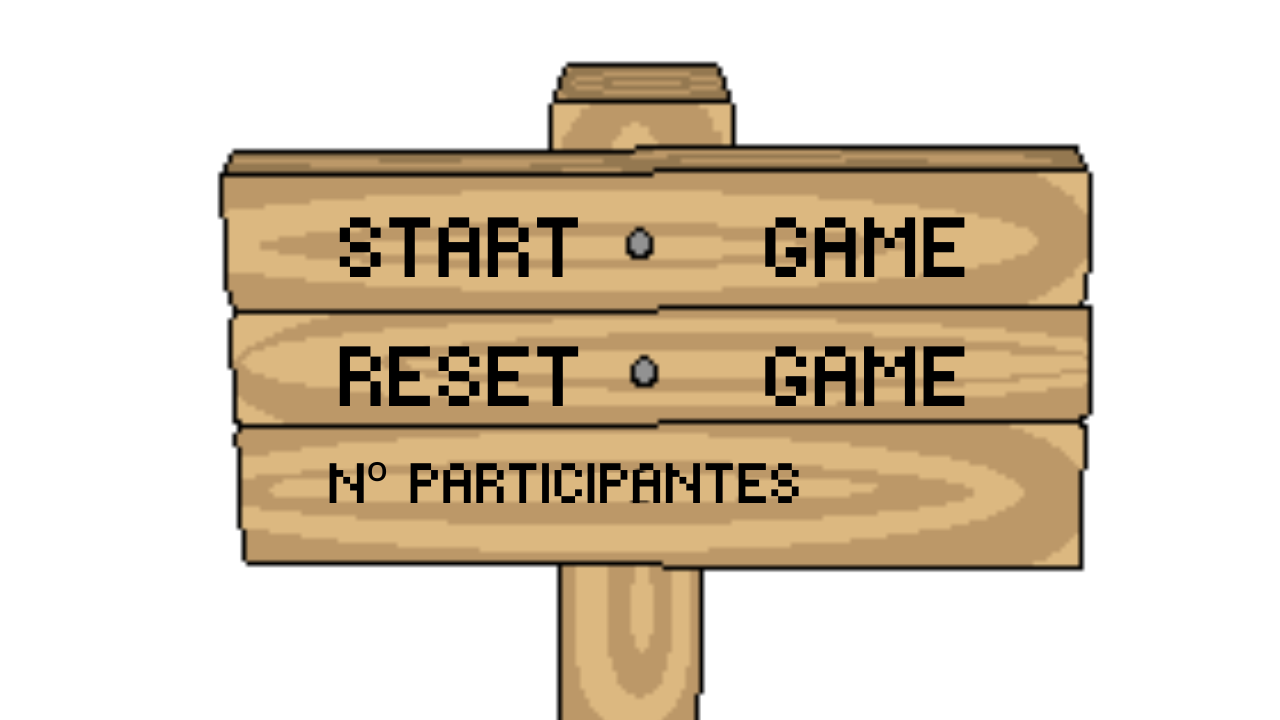
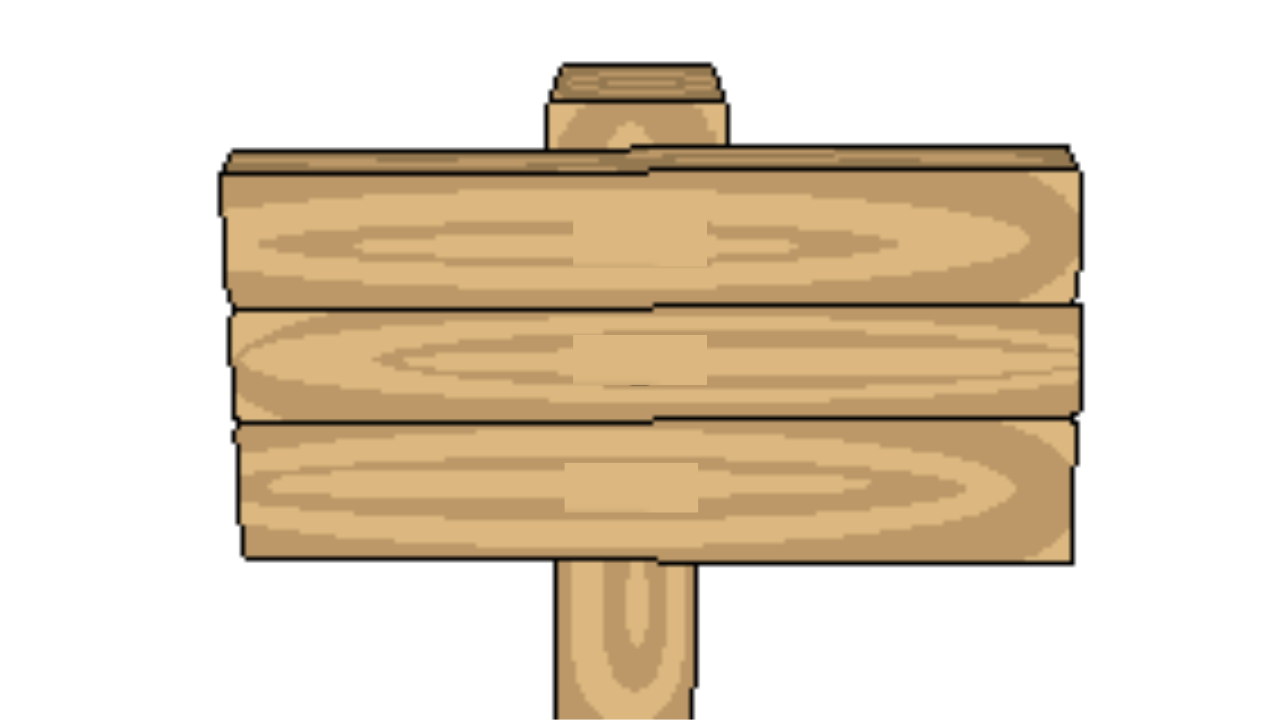
Final

Changed region(s): [[0.1562, 0.0917, 0.875, 1.0], [0.7812, 0.3361, 0.8125, 0.3667], [0.6562, 0.6722, 0.6875, 0.7028]]

diff --git a/css/style.css b/css/style.css
@@ -1,9 +1,10 @@
 @charset "utf-8";
-/* CSS Document */
+@import url('https://fonts.cdnfonts.com/css/common-pixel');
 
 *{
     padding: 0;
     margin: 0;
+    font-family: 'Common Pixel', sans-serif;
 }
 body {
     text-align: center;
@@ -71,8 +72,10 @@ body {
 #InfoCarrera {
     width: 80%;
     margin: 40px auto 0;
-    background: #333;
-    height: 200px;
+    background: #966F33;
+    height: 230px;
+    border-radius: 25px;
+
 }
 #InfoCarrera h2 {
     color: white;
@@ -87,24 +90,15 @@ body {
     width: 50%;
     float: left;
 }
-.InfoCarrera span {
-    display: block;
-    font-weight: normal;
-    font-size: 18px;
-    color: white;
-}
-#InfoCarrera1 {
-    color: #77B82f;
-}
-#InfoCarrera2 {
-    color: #B82F3E;
-}
 
 input[type="button"] {
     background: transparent;
-    color: white;
+    color: black;
     padding: 10px 50px;
-    border: solid 1px #444;
+    border: solid 1px transparent;
+font-size: 20px;
+
+                                                
 }
 
 #Start {
@@ -121,16 +115,18 @@ input[type="button"] {
     padding-left: 80px;
     padding-right: 80px;
     padding-top: 0px;
+    display: none;
+
 }
 
 .nParticipantes{
     margin-top: -510px;
-    margin-left: -470px;
+    margin-left: -580px;
 }
 
 input#Reset {
     background: transparent;
-    color: #444;
+    color: black;
 }
 #InfoCarrera:after {
     content: "";
@@ -144,6 +140,6 @@ width: 300px;
 
 margin-left: 900px;
 
-margin-top: -150px;
+margin-top: -180px;
 
 }

diff --git a/js/scripts.js b/js/scripts.js
@@ -1,5 +1,3 @@
-//JavaScript Document
-
 
 let seleccionNParticipantes = document.querySelector('#coches');
 
@@ -38,13 +36,8 @@ seleccionNParticipantes.addEventListener('change', (e)=>{
 })
 
 $('#Start').click(function() {
-    function CheckIfComplete() {
-        if (isComplete == false) {
-            isComplete == true;
-        } else {
-            place = 'Second';
-        }
-    }
+   
+    $("#Reset").show();
     let CarWidth = $('#Car1').width();
     let AnchoPista = $(window).width() - CarWidth;
     let velocidad1 = Math.floor((Math.random() * 5000) + 1);
@@ -56,8 +49,7 @@ $('#Start').click(function() {
     let velocidad7 = Math.floor((Math.random() * 5000) + 1);
     let velocidad8 = Math.floor((Math.random() * 5000) + 1);
     let velocidad9 = Math.floor((Math.random() * 5000) + 1);
-    let isComplete = false;
-    let Place = 'First';
+
 
 /**
  * Creo un array nuevo para almacenar los datos obtenidos en cuanto a velocidades

diff --git a/index.html b/index.html
@@ -1,6 +1,6 @@
 <html>
 <head>
-    <title>Car Racing Game In jQuery</title>
+    <title>Carrera Ilerna</title>
     <script src="./js/scripts.js" defer></script>
     <link rel="stylesheet" href="./css/style.css">
 </head>
@@ -11,10 +11,10 @@
 <section class="header">
     <img src="./img/cartelFinal.png" alt="" id="iniciar">
     <div class="button1">
-        <input type="button" value="" id="Start">
+        <input type="button" value="Start" id="Start">
     </div>
-    <div class="button2">
-        <input type="button" value="" id="Reset">
+    <div class="button2" >
+        <input type="button" value="Reset" id="Reset">
     </div>
         
 </section>
@@ -24,6 +24,7 @@
 </section>
 <section class="nParticipantes">
     <label for="coches"></label>
+    <label for="coches">Participantes:</label>
     <select name="coches" id="coches">
         <option value="0">0</option>
         <option value="1">1</option>
